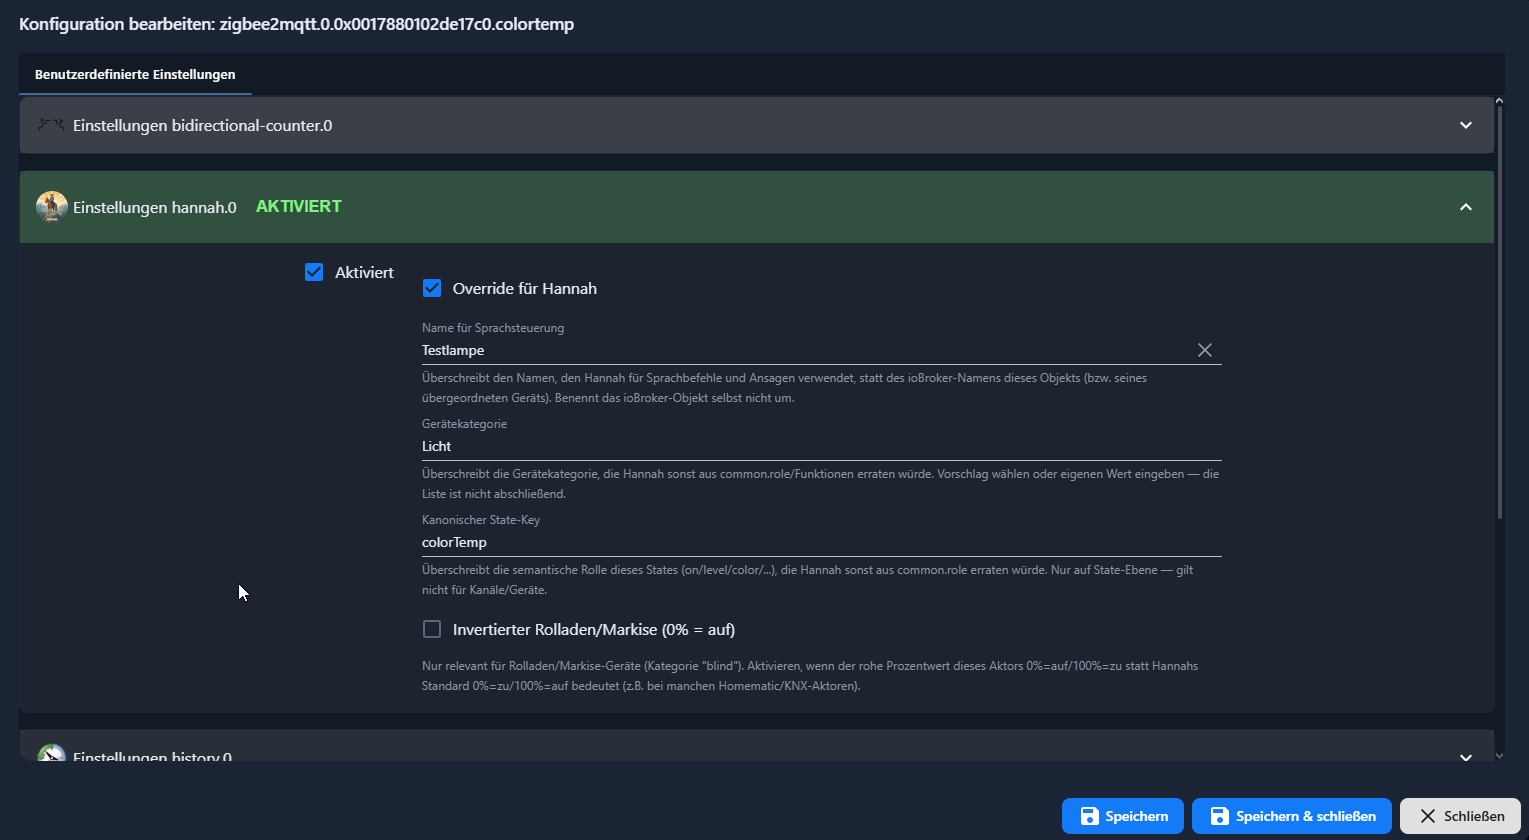
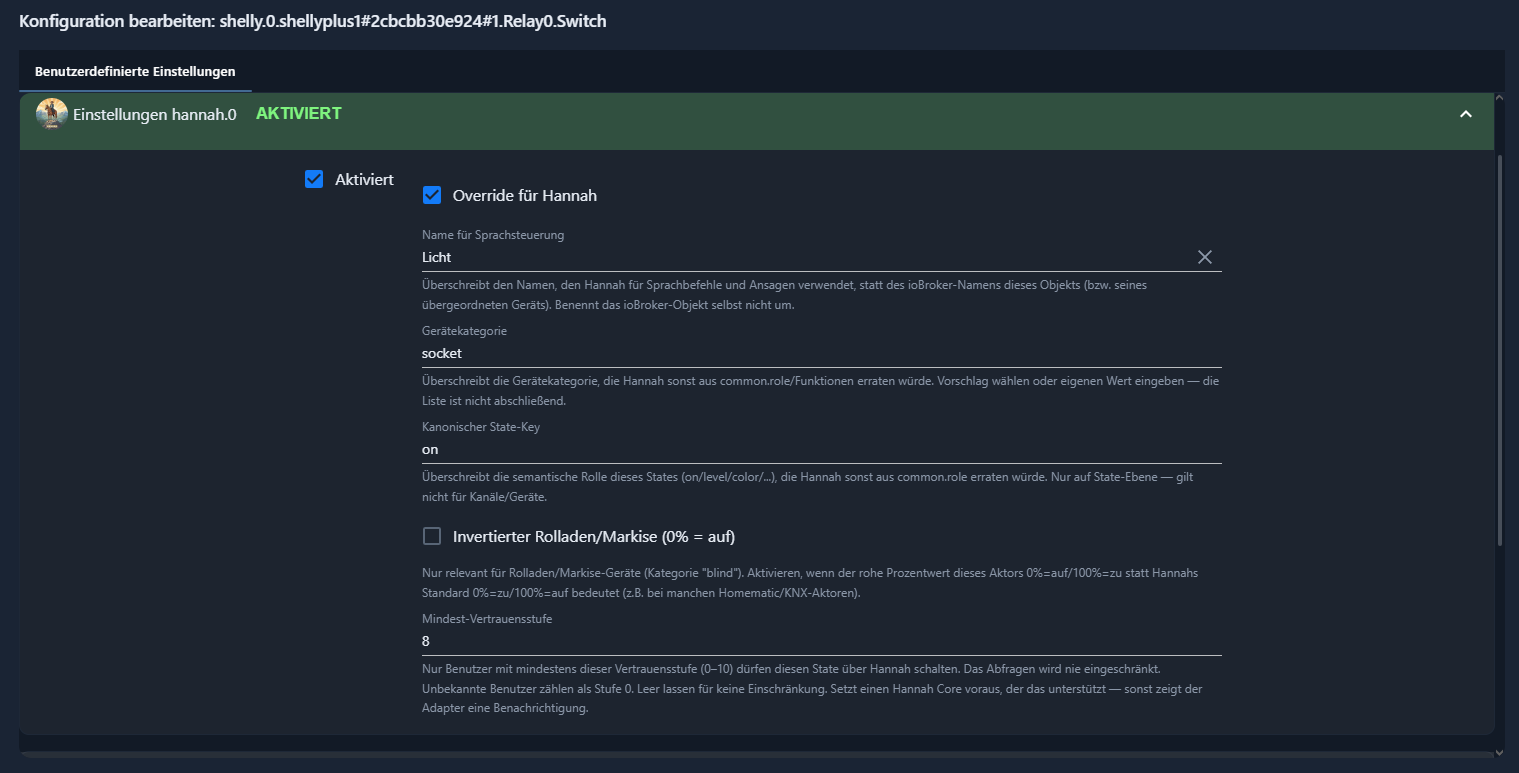
docs: minimum trust level per state
Handbuch: how to protect a device via the adapter's override tab (new
screenshot with the field), who counts as a guest, the trust-level effect
on the users page, and the Telegram/chat menus. Developer docs:
required_trust_level, ControlDeviceRequest source fields and the AgentAck
unknown-field report.

Refs #28

diff --git a/docs/manual/smart-home-integration.md b/docs/manual/smart-home-integration.md
@@ -66,12 +66,42 @@ lässt er sich frei setzen:
   `level`, `current`, …)
 - **shutterInverted** (nur bei Kategorie `blind`) — dreht die Prozentkonvention um,
   siehe unten
+- **Mindest-Vertrauensstufe** (nur auf State-Ebene) — wer diesen State über Hannah
+  schalten darf, siehe [Geräte schützen](#gerate-schutzen)
 
 Ein State-Override sticht einen Geräte-Override, der wiederum die automatische
 Erkennung sticht — du kannst also gezielt nur einen einzelnen State korrigieren, ohne
 das ganze Gerät anzufassen.
 
-![Hannah-Override-Tab an einem ioBroker-State mit Name, Gerätekategorie und canonicalKey](../assets/screenshots/manual/iobroker-override-tab.png)
+![Hannah-Override-Tab an einem ioBroker-State mit Name, Gerätekategorie, canonicalKey und Mindest-Vertrauensstufe](../assets/screenshots/manual/iobroker-override-tab.png)
+
+### Geräte schützen
+
+Manche Geräte soll nicht jeder schalten dürfen — ein Türschloss zum Beispiel, oder die
+Heizung. Dafür trägst du am jeweiligen State im Hannah-Reiter eine
+**Mindest-Vertrauensstufe** von 0 bis 10 ein. Hannah schaltet diesen State dann nur noch
+für Nutzer, deren [Trust-Level](users.md#trust-level) mindestens so hoch ist. Leer lassen
+heißt: keine Einschränkung, wie bisher.
+
+Was du dabei wissen solltest:
+
+- **Nur Schalten ist geschützt, Fragen nie.** "Ist die Haustür zu?" beantwortet Hannah
+  jedem.
+- **Wer nicht erkannt wird, zählt als Gast** (Trust-Level 0). Das betrifft Stimmen, die
+  Hannah [keiner Person zuordnen](../components/voiceid/index.md) kann, und Telegram- oder Chat-Konten, die
+  mit keinem Nutzer [verknüpft](users.md#verknupfte-konten) sind.
+- **Bei Sammelbefehlen** wie "alle Lichter im Flur aus" schaltet Hannah alle Geräte, die
+  du schalten darfst, und sagt dir, welche sie ausgelassen hat.
+- **Befehle über den `textCommand`-State des Adapters sind nicht eingeschränkt.** Wer
+  diesen State in ioBroker beschreiben kann, kann das Gerät dort ohnehin direkt schalten.
+- Die Einstellung wirkt **sofort**, ohne den Adapter neu zu starten.
+
+!!! warning "Hannah Core muss das unterstützen"
+    Die Mindest-Vertrauensstufe braucht einen aktuellen Hannah Core. Ist er zu alt,
+    schaltet er geschützte Geräte weiterhin für jeden. Der Adapter merkt das und zeigt in
+    ioBroker eine Benachrichtigung ("Hannah Core does not support trust levels per state
+    yet") — dann Hannah Core aktualisieren. Nach dem Update verschwindet die
+    Benachrichtigung von selbst.
 
 ## Die Hannah-Kategorien im Detail
 

diff --git a/docs/architecture/protocols/grpc.md b/docs/architecture/protocols/grpc.md
@@ -30,3 +30,36 @@ rather than vendored into each consumer.
 | `AgentConnect` | Bidirectional stream to the ioBroker adapter — state updates in, control commands out |
 | `TimerConnect` | Bidirectional stream to the timer service |
 | `EnrollVoiceprint` | Voice enrollment for speaker identification |
+
+## Minimum trust level per state
+
+A state can require a minimum user trust level (0–10) before Hannah Core sets it. Only
+setting is restricted, never reading.
+
+- **`AgentDevice.required_trust_level`** (`optional int32`, hannah-proto 4.7.0) — sent by
+  the ioBroker adapter with each device, read from the state's
+  `common.custom["hannah.0"].neededTrust`. Unset means no restriction, which is distinct
+  from an explicit `0`.
+- **`ControlDeviceRequest.source_service` / `source_user_id`** (hannah-proto 4.7.1) — the
+  calling service and its user, the same pair as on `SubmitTextRequest`. Core resolves the
+  user via `linked_accounts`; a request without them, or from an unlinked account, counts
+  as a guest (trust level 0). A rejected request returns `ok=false` with a message meant
+  for the user.
+
+Every other write path resolves the user the same way: VoiceID for voice (an unrecognised
+voice is a guest), `source_service`/`source_user_id` for `SubmitText`. Commands through
+the adapter's `textCommand` state are not restricted.
+
+## Unknown-field report (`AgentAck`)
+
+Protobuf silently drops fields the receiver's schema doesn't know, so a newer adapter
+can't tell on its own whether an older Core evaluates a field like
+`required_trust_level`. For that, the adapter sets **`AgentMessage.ack_id`** on a message
+(hannah-proto 4.7.0). Core processes the message and then replies on the `AgentConnect`
+stream with an **`AgentAck`** carrying the same `ack_id` and the unknown field numbers
+per fully qualified message type (`UnknownFields`); an empty list means everything was
+understood. Core guarantees that every field it does not report is also evaluated.
+
+A Core too old for this never replies. The adapter treats a missing ack after a timeout —
+or a connection over the unversioned `hannah` API — as "not supported" and shows an
+ioBroker notification when a state has `neededTrust` set.

diff --git a/docs/manual/users.md b/docs/manual/users.md
@@ -41,11 +41,14 @@ Nutzer an (oder änderst direkt das Admin-Passwort, siehe
 ## Trust-Level
 
 Jeder Nutzer hat ein **Trust-Level von 0 bis 10**. Es ist keine Alters- oder
-Rollenbezeichnung, sondern eine reine Zahl, die an genau zwei Stellen wirkt:
+Rollenbezeichnung, sondern eine reine Zahl, die an drei Stellen wirkt:
 
 1. **Berechtigung** — viele Aktionen in der WebUI (und ein paar Sprachbefehle) sind erst
    ab einem bestimmten Trust-Level sichtbar bzw. ausführbar.
-2. **Gesprächskontext** — Hannahs LLM bekommt das Trust-Level der sprechenden Person als
+2. **Geschützte Geräte** — einzelne Geräte lassen sich so einstellen, dass nur Nutzer ab
+   einem bestimmten Trust-Level sie schalten dürfen, egal ob per Sprache, Telegram oder
+   Chat (siehe [Geräte schützen](smart-home-integration.md#gerate-schutzen)).
+3. **Gesprächskontext** — Hannahs LLM bekommt das Trust-Level der sprechenden Person als
    Teil des System-Prompts mit (`Vertrauenslevel: X/10`). Es beeinflusst also potenziell
    auch, *wie* Hannah antwortet, nicht nur, was sie zulässt.
 
@@ -71,8 +74,10 @@ Die wichtigsten Schwellenwerte in der WebUI:
     [Wecker](alarms.md) sind bewusst **nicht** trust-gated — Details dazu auf der
     [Wecker-Seite](alarms.md#wichtig-kein-trust-level-schutz).
 
-Für unbekannte oder nicht angemeldete Anfragen (z. B. Systemprozesse) gilt intern kein
-Trust-Level-Check — das betrifft nur Hannah selbst, nicht reguläre Nutzer.
+Für Hannahs eigene Abläufe (z. B. Trigger und Routinen) gilt intern kein
+Trust-Level-Check — das betrifft nur Hannah selbst, nicht reguläre Nutzer. Personen, die
+Hannah nicht erkennt (fremde Stimme, nicht verknüpftes Telegram- oder Chat-Konto),
+behandelt sie bei geschützten Geräten wie einen Gast mit Trust-Level 0.
 
 ## Nutzer anlegen und bearbeiten
 

diff --git a/docs/components/chat/index.md b/docs/components/chat/index.md
@@ -37,4 +37,7 @@ viel ein Nutzer bei Hannah darf (siehe [Nutzerverwaltung](../../manual/users.md)
 Mit `/login` meldest du dich mit denselben Zugangsdaten an wie in der WebUI.
 
 **Im `/devices`-Menü** tippst du einfach die angezeigte Nummer: erst den Raum, dann das
-Gerät, dann die Aktion. `0` geht eine Ebene zurück bzw. schließt das Menü.
+Gerät, dann die Aktion. `0` geht eine Ebene zurück bzw. schließt das Menü. Hat ein Gerät
+eine [Mindest-Vertrauensstufe](../../manual/smart-home-integration.md#gerate-schutzen),
+schaltet Hannah es nur, wenn du angemeldet bist und dein Trust-Level reicht — sonst
+bekommst du eine Absage.

diff --git a/docs/components/telegram/index.md b/docs/components/telegram/index.md
@@ -4,3 +4,9 @@
 erlaubt zusätzlich, Hannah per Telegram-Chat anzusprechen: Text rein, Text oder Sprache
 zurück. Läuft als eigener Prozess mit eigenem Lebenszyklus, damit ein Absturz hier nicht
 Hannah Core mitreißt.
+
+Damit Hannah weiß, wer schreibt, verknüpfst du dein Telegram-Konto mit deinem
+Hannah-Nutzer (siehe [Verknüpfte Konten](../../manual/users.md#telegram)). Ohne
+Verknüpfung behandelt Hannah dich wie einen Gast — Geräte mit einer
+[Mindest-Vertrauensstufe](../../manual/smart-home-integration.md#gerate-schutzen) kannst
+du dann weder per Nachricht noch über das Gerätemenü schalten.
